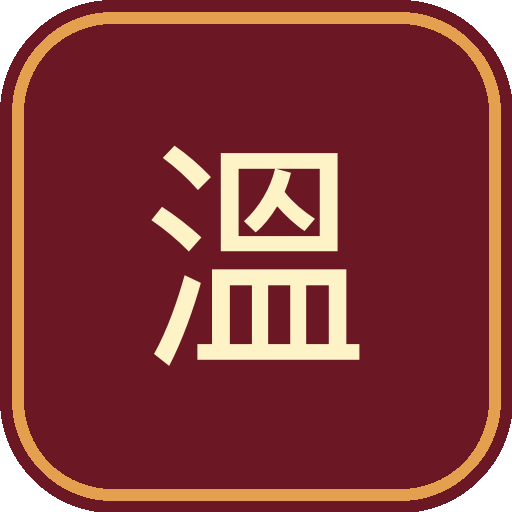
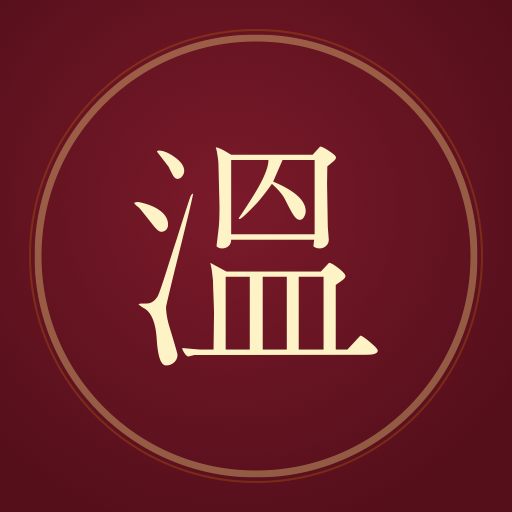
feat: 사파리 웹앱 아이콘 및 파비콘을 헤더 로고와 동일한 溫 인장 디자인으로 통일

diff --git a/src/app/layout.tsx b/src/app/layout.tsx
@@ -6,8 +6,14 @@ export const metadata: Metadata = {
   description: "서재 책상 위에 놓인 가죽 양장 다이어리와 편지 봉투. 하루걸러 쓰는 턴제 교환일기 서비스 온기.",
   manifest: "/manifest.json",
   icons: {
-    icon: "/icon-192.png",
-    apple: "/apple-touch-icon.png",
+    icon: [
+      { url: "/favicon.ico", sizes: "any" },
+      { url: "/favicon-32x32.png", sizes: "32x32", type: "image/png" },
+      { url: "/icon-192.png", sizes: "192x192", type: "image/png" },
+    ],
+    apple: [
+      { url: "/apple-touch-icon.png", sizes: "180x180", type: "image/png" },
+    ],
   },
   appleWebApp: {
     capable: true,
